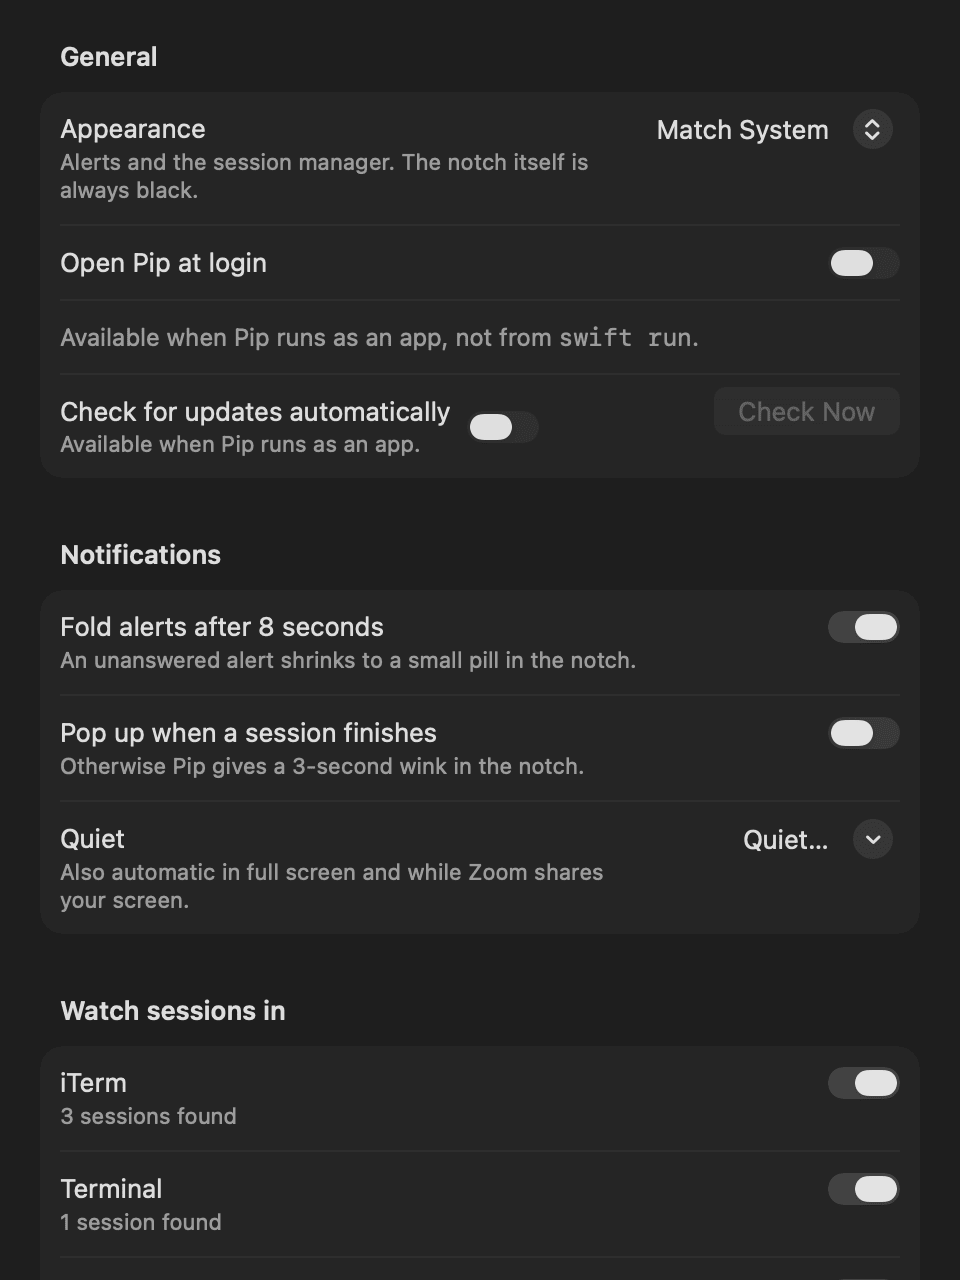
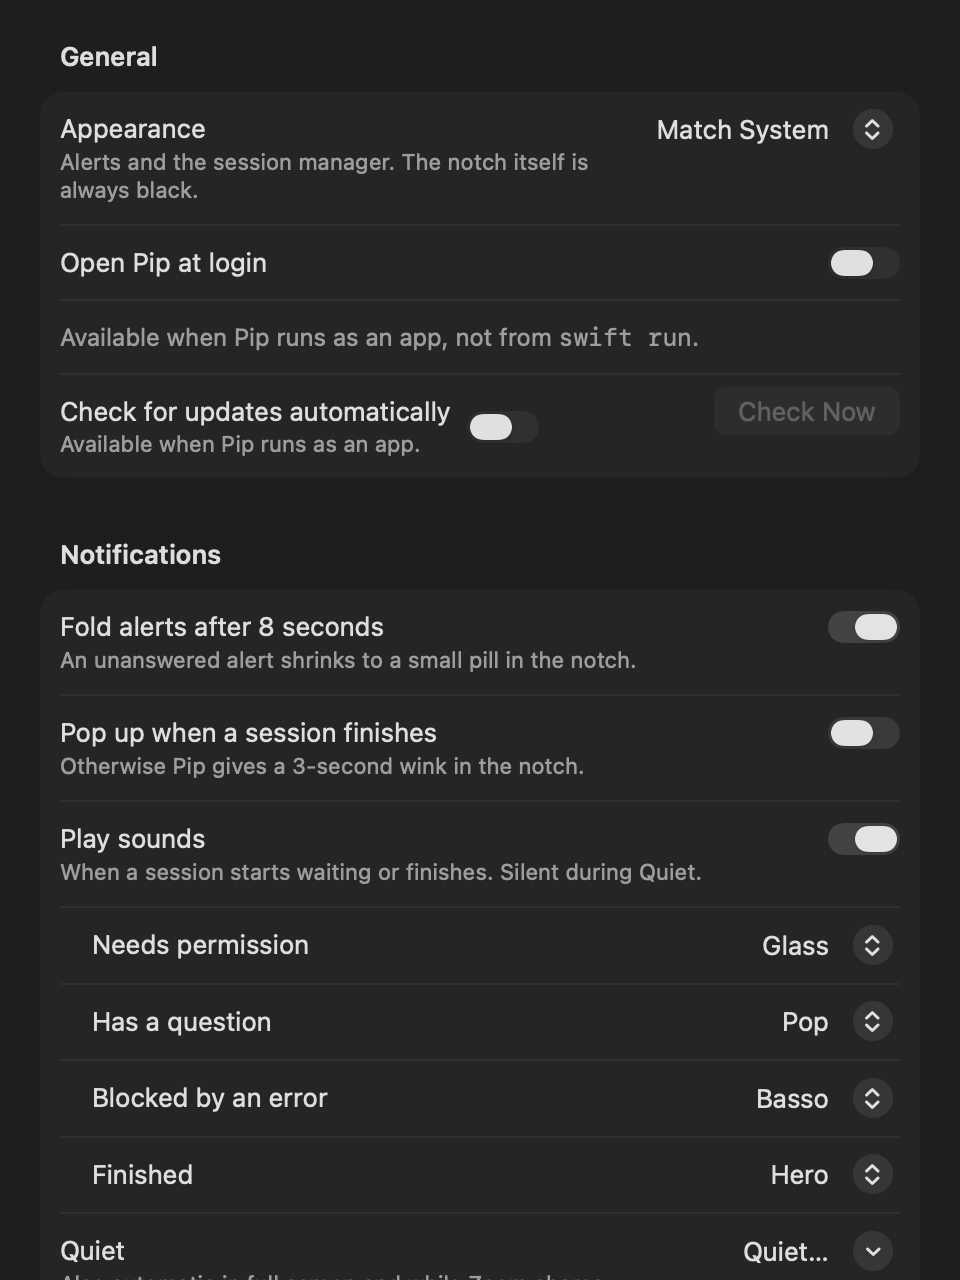
Document sounds

diff --git a/README.md b/README.md
@@ -30,6 +30,7 @@ Pip fixes that. It sits invisibly inside the notch while your agents work. When 
 - **One queue, most urgent first.** Several agents waiting become one list: permission, then questions, then errors, oldest first. Cycle through it with ⌥⌘↓.
 - **Every session at a glance.** Click the notch for a live list of what's waiting, working and finished, plus a week of history. Any row jumps to its session.
 - **Knows how much you have left.** The Usage tab shows how much of your Claude and Codex rate limits you've used (5-hour and weekly) and when each one resets.
+- **Sounds you can tell apart.** A different chime for permission, questions, errors and finished runs, each one changeable or silenced in Settings.
 - **Stays out of the way.** Unanswered alerts fold into a small pill. In full screen Pip shrinks to a thin glow, and it goes quiet while Zoom shares your screen or when you ask it to.
 - **Read-only by design.** Pip never types into your terminal and never approves anything. Answers always happen in the real session.
 - **Private.** Everything stays on your Mac. The only network request Pip makes is its update check to GitHub.
@@ -130,11 +131,11 @@ Pip asks macOS for two permissions. **Automation** lets it select the right iTer
 
 ↵, Esc and ⌘1–9 work once the notch has focus: click it, or use ⌥⌘. or ⌥⌘↓. Pip never takes the keyboard from your editor on its own.
 
-**Staying out of the way.** When an app is full screen (or the menu bar is set to hide), Pip shrinks to a 4px glow along the top edge, only while something is waiting; click it to see what. While Zoom is sharing your screen, or when you turn on **Quiet** from the menu bar, new alerts only update the count and the notch doesn't open by itself. macOS doesn't let apps read Focus modes, so use Quiet for those.
+**Staying out of the way.** When an app is full screen (or the menu bar is set to hide), Pip shrinks to a 4px glow along the top edge, only while something is waiting; click it to see what. While Zoom is sharing your screen, or when you turn on **Quiet** from the menu bar, new alerts only update the count, no sound plays and the notch doesn't open by itself. macOS doesn't let apps read Focus modes, so use Quiet for those.
 
-<p align="center"><img src="docs/images/settings.png" width="360" alt="Pip's settings: appearance, open at login, update checks, notification options, Quiet, which apps to watch, Claude Code hooks and permissions"></p>
+<p align="center"><img src="docs/images/settings.png" width="360" alt="Pip's settings: appearance, open at login, update checks, notification options, a sound for each state, Quiet, which apps to watch, Claude Code hooks and permissions"></p>
 
-**Settings** (menu bar → Settings…) covers appearance, opening at login, update checks, whether alerts fold after 8 seconds, whether finished sessions pop up, Quiet, which apps to watch, hooks, Claude usage and permissions.
+**Settings** (menu bar → Settings…) covers appearance, opening at login, update checks, whether alerts fold after 8 seconds, whether finished sessions pop up, sounds for each state, Quiet, which apps to watch, hooks, Claude usage and permissions.
 
 ## Updates
 
